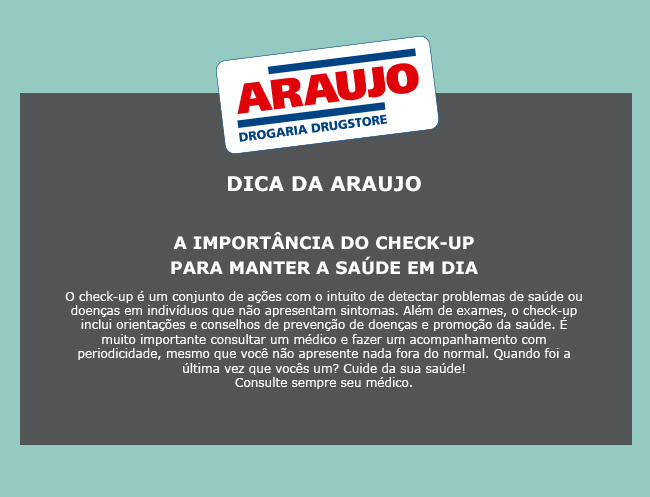
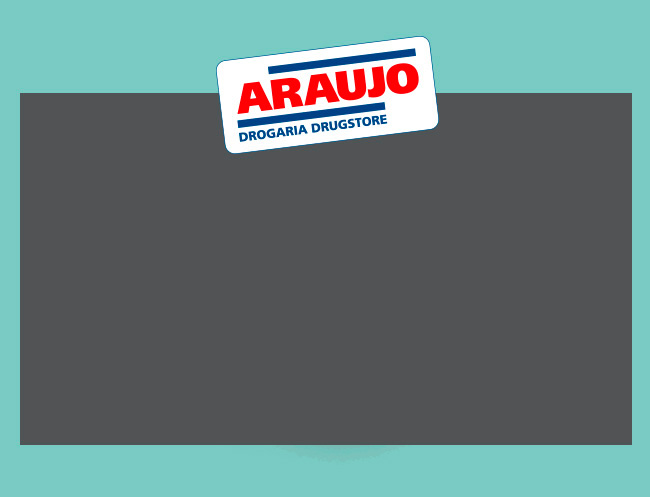
--

diff --git a/buscarid/email-marketing_favoritos_19102016.html b/buscarid/email-marketing_favoritos_19102016.html
@@ -876,7 +876,7 @@
 	<!-- DICA ARAUJO -->
 	<table width="650" cellpadding="0" cellspacing="0" border="0" align="center">
 		<tr>
-			<td width="650" align="center" valign="top"><img src="https://qd-araujo-email.github.io/buscarid/imagens/201610-favoritos/email-marketing_favoritos_19102016_dica.jpg" width="650" height="497" border="0" alt="Dica Araujo" title="Dica Araujo" style="display:block;" />
+			<td width="650" align="center" valign="top" style="background-image: url('https://qd-araujo-email.github.io/buscarid/imagens/201610-favoritos/email-marketing_favoritos_19102016_dica.jpg');">
 			</td>
 		</tr>
 	</table>
